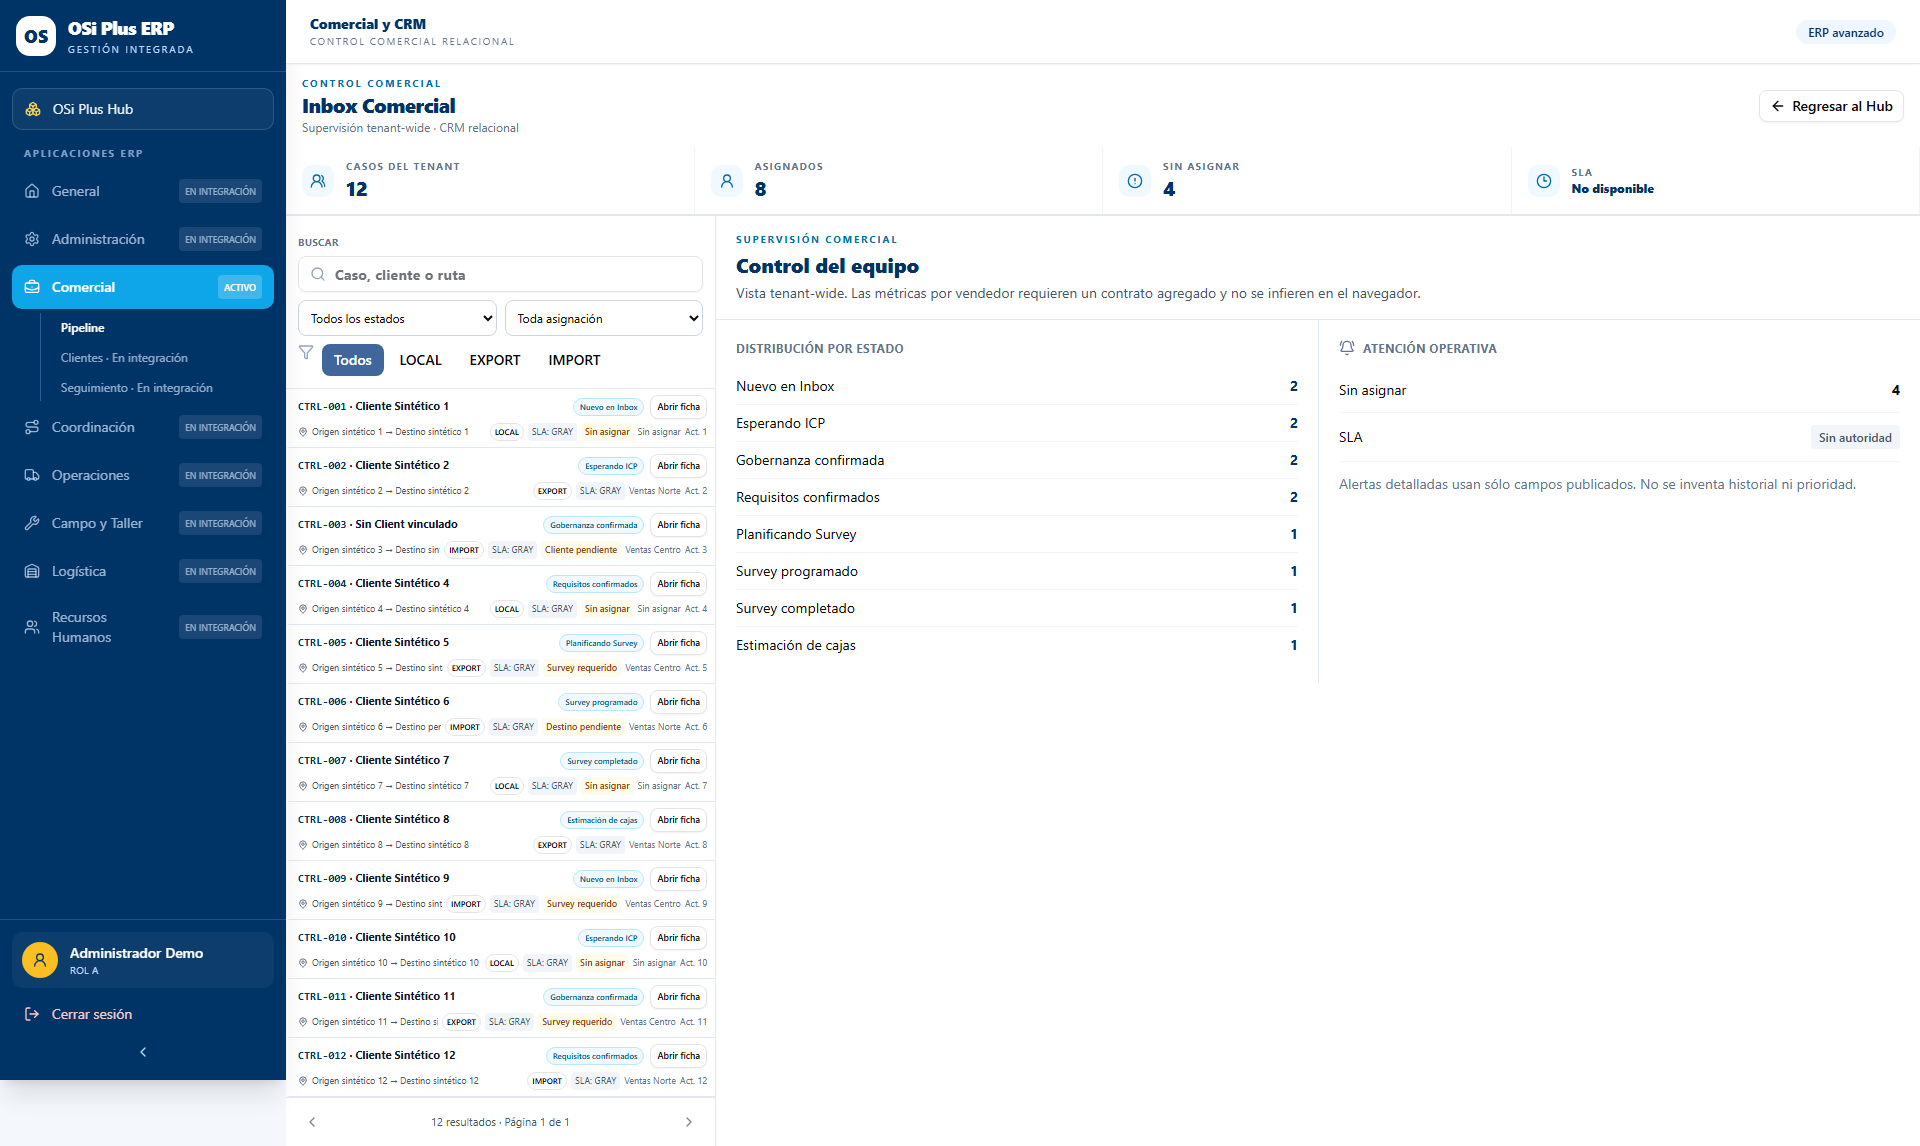
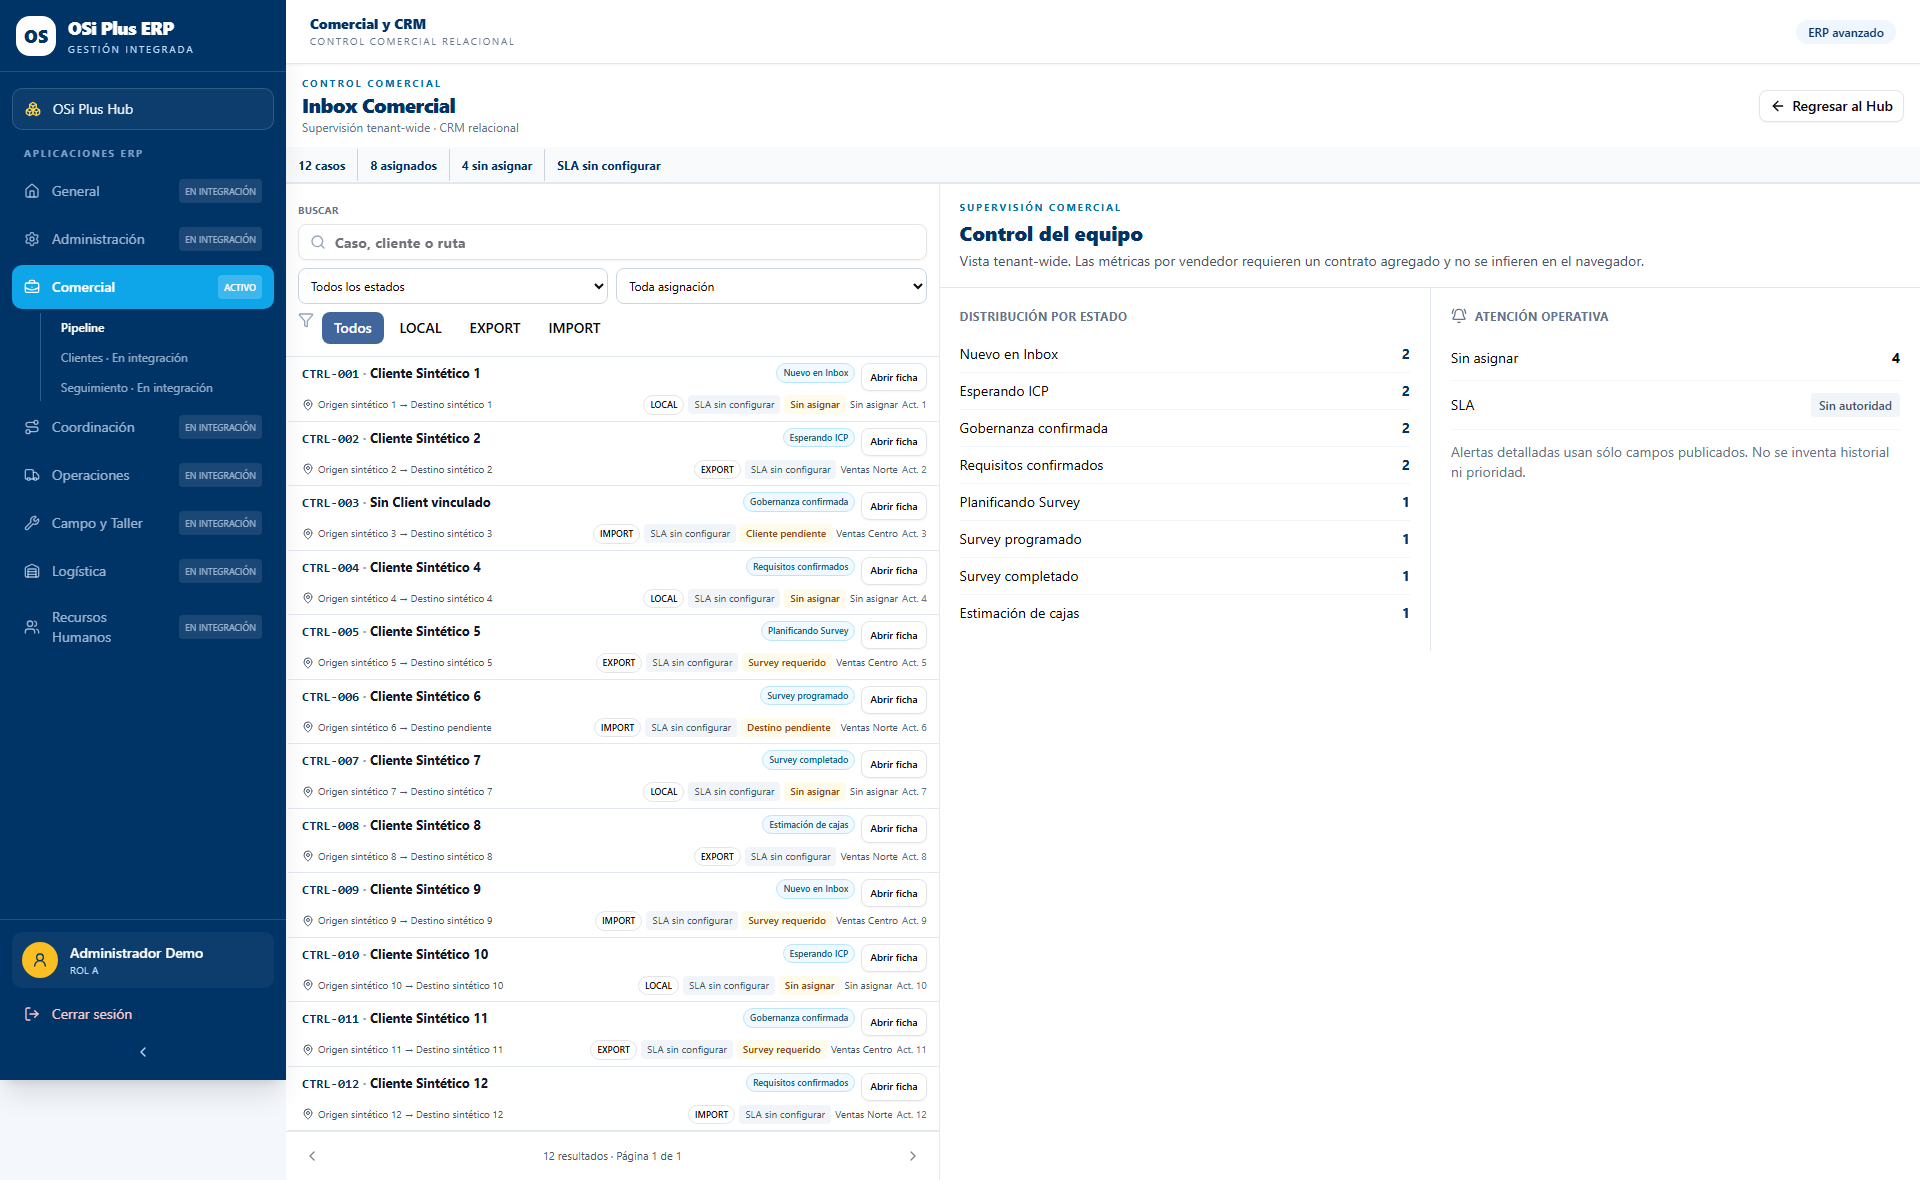
fix(crm): improve compact queue readability

diff --git a/src/commercial-crm/CommercialInboxModule.tsx b/src/commercial-crm/CommercialInboxModule.tsx
@@ -1,5 +1,5 @@
 import { lazy, Suspense, useCallback, useEffect, useMemo, useRef, useState } from "react";
-import { AlertCircle, ArrowLeft, BellRing, ChevronLeft, ChevronRight, Clock3, Filter, MapPin, Plus, Search, UserRound, UsersRound } from "lucide-react";
+import { AlertCircle, ArrowLeft, BellRing, ChevronLeft, ChevronRight, Filter, MapPin, Plus, Search } from "lucide-react";
 import { Alert, AlertDescription, AlertTitle } from "@/components/ui/alert";
 import { Badge } from "@/components/ui/badge";
 import { Button } from "@/components/ui/button";
@@ -34,12 +34,12 @@ function factualAlerts(item: CrmPipelineCase) {
 
 function SummaryStrip({ value, role }: { value: CrmPipelineSummary | null; role: string }) {
   const values = [
-    { label: role === "V" ? "Mis casos" : "Casos del tenant", value: value?.total ?? 0, icon: UsersRound },
-    { label: "Asignados", value: value?.assigned ?? 0, icon: UserRound },
-    { label: "Sin asignar", value: value?.unassigned ?? 0, icon: AlertCircle },
-    { label: "SLA", value: "No disponible", icon: Clock3 },
+    `${value?.total ?? 0} ${role === "V" ? "casos propios" : "casos"}`,
+    `${value?.assigned ?? 0} asignados`,
+    `${value?.unassigned ?? 0} sin asignar`,
+    "SLA sin configurar",
   ];
-  return <div className="grid grid-cols-2 border-b border-slate-200 bg-white xl:grid-cols-4">{values.map(({ label, value: count, icon: Icon }) => <div key={label} className="flex min-h-16 items-center gap-3 border-b border-r border-slate-100 px-3 py-2 xl:border-b-0 xl:px-4 xl:py-3"><span className="grid h-8 w-8 shrink-0 place-items-center rounded-lg bg-sky-50 text-[#006aa6]"><Icon className="h-4 w-4" /></span><div className="min-w-0"><p className="truncate text-[9px] font-bold uppercase tracking-[.1em] text-slate-500 sm:text-[10px] sm:tracking-[.12em]">{label}</p><p className={`${typeof count === "number" ? "text-xl" : "text-[11px]"} font-black text-[#003366]`}>{count}</p></div></div>)}</div>;
+  return <div data-testid="commercial-summary-strip" className="flex min-h-9 items-center overflow-x-auto border-b border-slate-200 bg-slate-50 px-3 text-[11px] font-bold text-[#003366] sm:text-xs" aria-label="Resumen del alcance comercial">{values.map((label, index) => <span key={label} className={`shrink-0 py-2 ${index ? "border-l border-slate-300 pl-3 ml-3" : ""}`}>{label}</span>)}</div>;
 }
 
 function EmptyState() {
@@ -48,7 +48,7 @@ function EmptyState() {
 
 function QueueItem({ item, selected, onOpen }: { item: CrmPipelineCase; selected: boolean; onOpen(caseRef: string): void }) {
   const alerts = factualAlerts(item);
-  return <article className={`border-b border-slate-200 bg-white transition-colors ${selected ? "border-l-4 border-l-[#0079b8] bg-sky-50" : "border-l-4 border-l-transparent hover:bg-slate-50"}`}><div className="px-2 py-1.5"><div className="flex items-center gap-1.5"><p className="min-w-0 flex-1 truncate text-[11px] font-bold text-slate-900"><span className="font-mono font-black text-[#003366]">{item.caseCode}</span> · {item.client?.displayName || "Sin Client vinculado"}</p><Badge data-status={item.status} variant="outline" className={`${statusClass(item.status)} shrink-0 px-1.5 text-[8px]`}>{STATUS_LABELS[item.status]}</Badge><Button size="sm" className="h-6 shrink-0 px-1.5 text-[9px]" variant={selected ? "secondary" : "outline"} onClick={() => onOpen(item.caseRef)}>Abrir ficha</Button></div><div className="mt-1 flex min-w-0 items-center gap-1 overflow-hidden text-[9px]"><span className="flex min-w-20 flex-1 items-center gap-1 truncate text-slate-600"><MapPin className="h-2.5 w-2.5 shrink-0" />{item.originLocation || "Origen pendiente"} → {item.destinationLocation || "Destino pendiente"}</span><Badge variant="outline" className="shrink-0 px-1 text-[8px]">{item.mode}</Badge><span className="shrink-0 rounded bg-slate-100 px-1 py-0.5 text-slate-600">SLA: GRAY</span>{alerts.slice(0, 1).map((alert) => <span key={alert} className="max-w-24 truncate rounded bg-amber-50 px-1 py-0.5 font-semibold text-amber-800">{alert}</span>)}<span className="max-w-24 truncate text-slate-500">{item.owner?.displayName || "Sin asignar"}</span>{item.eventCount > 0 && <span className="shrink-0 text-slate-500">Act. {item.eventCount}</span>}</div></div></article>;
+  return <article data-testid="commercial-queue-item" className={`border-b border-slate-200 bg-white transition-colors ${selected ? "border-l-4 border-l-[#0079b8] bg-sky-50" : "border-l-4 border-l-transparent hover:bg-slate-50"}`}><div className="grid grid-cols-[minmax(0,1fr)_auto] gap-x-2 px-3 py-1.5"><p className="min-w-0 truncate text-[13px] font-bold text-slate-900"><span className="font-mono font-black text-[#003366]">{item.caseCode}</span><span className="text-slate-400"> · </span>{item.client?.displayName || "Sin Client vinculado"}</p><div className="flex shrink-0 items-start gap-1.5"><Badge data-status={item.status} variant="outline" className={`${statusClass(item.status)} max-w-40 truncate px-1.5 text-[9px]`}>{STATUS_LABELS[item.status]}</Badge><Button size="sm" className="h-7 shrink-0 px-2 text-[10px]" variant={selected ? "secondary" : "outline"} onClick={() => onOpen(item.caseRef)}>Abrir ficha</Button></div><div className="col-span-2 mt-1 flex min-w-0 items-center gap-1 overflow-hidden text-[10px]"><span className="flex min-w-24 flex-1 items-center gap-1 truncate text-slate-600"><MapPin className="h-3 w-3 shrink-0" />{item.originLocation || "Origen pendiente"} → {item.destinationLocation || "Destino pendiente"}</span><Badge variant="outline" className="shrink-0 px-1.5 text-[9px]">{item.mode}</Badge><span className="shrink-0 rounded bg-slate-100 px-1.5 py-0.5 text-slate-600">SLA sin configurar</span>{alerts.slice(0, 1).map((alert) => <span key={alert} className="max-w-32 truncate rounded bg-amber-50 px-1.5 py-0.5 font-semibold text-amber-800">{alert}</span>)}<span className="max-w-32 truncate text-slate-600">{item.owner?.displayName || "Sin asignar"}</span>{item.eventCount > 0 && <span className="shrink-0 text-slate-500">Act. {item.eventCount}</span>}</div></div></article>;
 }
 
 function SupervisionPanel({ summary, role }: { summary: CrmPipelineSummary | null; role: string }) {
@@ -84,5 +84,5 @@ export default function CommercialInboxModule({ authorization, mutationAccess, r
   const pages = Math.max(1, Math.ceil((list?.total ?? 0) / (list?.pageSize ?? PAGE_SIZE)));
   const queue = <section className="flex min-h-0 flex-col border-r border-slate-200 bg-slate-50" aria-label="Cola comercial"><div className="border-b border-slate-200 bg-white p-3"><label className="text-[10px] font-bold uppercase tracking-wide text-slate-500">Buscar<span className="relative mt-1 block"><Search className="pointer-events-none absolute left-3 top-2.5 h-4 w-4 text-slate-400" /><Input className="h-9 pl-9" value={searchInput} onChange={(event) => setSearchInput(event.target.value)} placeholder="Caso, cliente o ruta" /></span></label><div className="mt-2 grid grid-cols-2 gap-2"><select aria-label="Estado" className="h-9 rounded-md border border-slate-300 bg-white px-2 text-xs" value={filters.status || ""} onChange={(event) => setFilters((current) => ({ ...current, page: 1, status: (event.target.value || undefined) as PipelineCaseStatus | undefined }))}><option value="">Todos los estados</option>{PIPELINE_CASE_STATUSES.map((value) => <option key={value} value={value}>{STATUS_LABELS[value]}</option>)}</select><select aria-label="Asignación" className="h-9 rounded-md border border-slate-300 bg-white px-2 text-xs" value={filters.owner || ""} onChange={(event) => setFilters((current) => ({ ...current, page: 1, owner: (event.target.value || undefined) as CrmPipelineFilters["owner"] }))} disabled={role === "V"}><option value="">{role === "V" ? "Sólo mis casos" : "Toda asignación"}</option><option value="assigned">Asignadas</option><option value="unassigned">Sin asignar</option></select></div><div className="mt-2 flex flex-wrap gap-1"><Filter className="mr-1 h-4 w-4 text-slate-400" /><Button size="sm" variant={!filters.mode ? "secondary" : "ghost"} onClick={() => setFilters((current) => ({ ...current, page: 1, mode: undefined }))}>Todos</Button>{MODES.map((mode) => <Button key={mode} size="sm" variant={filters.mode === mode ? "secondary" : "ghost"} onClick={() => setFilters((current) => ({ ...current, page: 1, mode }))}>{mode}</Button>)}</div></div><div className="min-h-0 flex-1 overflow-y-auto">{listError && <Alert variant="destructive" className="m-3"><AlertCircle /><AlertTitle>{listError.code}</AlertTitle><AlertDescription>{commercialReadErrorCopy(listError)}<Button size="sm" variant="outline" className="mt-2" onClick={() => setRefresh((value) => value + 1)}>Reintentar lectura</Button></AlertDescription></Alert>}{loading && !list && <p className="p-8 text-center text-sm text-slate-500">Cargando Inbox Comercial…</p>}{!loading && list?.data.length === 0 && <EmptyState />}{list?.data.map((item) => <QueueItem key={item.caseRef} item={item} selected={item.caseRef === caseRef} onOpen={onOpenCase} />)}</div><footer className="flex items-center justify-between gap-2 border-t border-slate-200 bg-white p-2"><Button size="sm" variant="ghost" aria-label="Página anterior" disabled={loading || (list?.page ?? filters.page) <= 1} onClick={() => setFilters((current) => ({ ...current, page: Math.max(1, current.page - 1) }))}><ChevronLeft /></Button><p className="text-[11px] text-slate-600">{list?.total ?? 0} resultados · Página {list?.page ?? filters.page} de {pages}</p><Button size="sm" variant="ghost" aria-label="Página siguiente" disabled={loading || (list?.page ?? filters.page) >= pages} onClick={() => setFilters((current) => ({ ...current, page: Math.min(pages, current.page + 1) }))}><ChevronRight /></Button></footer></section>;
 
-  return <section className="flex min-h-[calc(100vh-4rem)] flex-col bg-[#f4f7fb]" data-testid="commercial-crm-inbox"><header className="border-b border-slate-200 bg-white"><div className="flex flex-wrap items-center justify-between gap-3 px-4 py-3"><div><p className="text-[10px] font-bold uppercase tracking-[.2em] text-[#0070a8]">Control Comercial</p><h1 className="text-xl font-black tracking-tight text-[#003366]">Inbox Comercial</h1><p className="text-xs text-slate-500">{role === "V" ? "Cola personal revalidada por servidor" : "Supervisión tenant-wide"} · CRM relacional</p></div><div className="flex gap-2">{mutationEnvironmentEnabled && mutationAccess.canCreate && <Button size="sm" onClick={() => setCreateOpen(true)}><Plus />Nuevo Caso</Button>}<Button size="sm" variant="outline" onClick={onBack}><ArrowLeft />Regresar al Hub</Button></div></div><SummaryStrip value={summary} role={role} /></header>{mutationEnvironmentEnabled && mutationAccess.canCreate && <CommercialCaseForm open={createOpen} mode="CREATE" api={mutationApi} onOpenChange={setCreateOpen} onCommitted={(receipt) => { setRefresh((value) => value + 1); onOpenCase(receipt.caseRef); }} />}{summaryError && <Alert variant="destructive" className="m-3"><AlertCircle /><AlertTitle>{summaryError.code}</AlertTitle><AlertDescription>{commercialReadErrorCopy(summaryError)}</AlertDescription></Alert>}<div className="min-h-0 flex-1 md:grid md:grid-cols-[390px_minmax(0,1fr)] xl:grid-cols-[430px_minmax(0,1fr)]"><div className={caseRef ? "hidden md:block" : "block"}>{queue}</div><main className={caseRef ? "block min-w-0 bg-white" : "hidden min-w-0 bg-white md:block"}>{caseRef ? <Suspense fallback={<div className="grid min-h-[50vh] place-items-center text-sm text-slate-500">Cargando Ficha del Caso…</div>}><CommercialCaseDetail state={detail} mutationEnvironmentEnabled={mutationEnvironmentEnabled} mutationAccess={mutationAccess} mutationApi={mutationApi} onBack={onReturnToInbox} onReload={() => setDetailRefresh((value) => value + 1)} /></Suspense> : <SupervisionPanel summary={summary} role={role} />}</main></div></section>;
+  return <section className="flex min-h-[calc(100vh-4rem)] flex-col bg-[#f4f7fb]" data-testid="commercial-crm-inbox"><header className="border-b border-slate-200 bg-white"><div className="flex flex-wrap items-center justify-between gap-3 px-4 py-3"><div><p className="text-[10px] font-bold uppercase tracking-[.2em] text-[#0070a8]">Control Comercial</p><h1 className="text-xl font-black tracking-tight text-[#003366]">Inbox Comercial</h1><p className="text-xs text-slate-500">{role === "V" ? "Cola personal revalidada por servidor" : "Supervisión tenant-wide"} · CRM relacional</p></div><div className="flex gap-2">{mutationEnvironmentEnabled && mutationAccess.canCreate && <Button size="sm" onClick={() => setCreateOpen(true)}><Plus />Nuevo Caso</Button>}<Button size="sm" variant="outline" onClick={onBack}><ArrowLeft />Regresar al Hub</Button></div></div><SummaryStrip value={summary} role={role} /></header>{mutationEnvironmentEnabled && mutationAccess.canCreate && <CommercialCaseForm open={createOpen} mode="CREATE" api={mutationApi} onOpenChange={setCreateOpen} onCommitted={(receipt) => { setRefresh((value) => value + 1); onOpenCase(receipt.caseRef); }} />}{summaryError && <Alert variant="destructive" className="m-3"><AlertCircle /><AlertTitle>{summaryError.code}</AlertTitle><AlertDescription>{commercialReadErrorCopy(summaryError)}</AlertDescription></Alert>}<div data-testid="commercial-master-detail-layout" className="min-h-0 flex-1 xl:grid" style={{ gridTemplateColumns: "clamp(560px, 40%, 720px) minmax(0, 1fr)" }}><div className={caseRef ? "hidden xl:block" : "block"}>{queue}</div><main className={caseRef ? "block min-w-0 bg-white" : "hidden min-w-0 bg-white xl:block"}>{caseRef ? <Suspense fallback={<div className="grid min-h-[50vh] place-items-center text-sm text-slate-500">Cargando Ficha del Caso…</div>}><CommercialCaseDetail state={detail} mutationEnvironmentEnabled={mutationEnvironmentEnabled} mutationAccess={mutationAccess} mutationApi={mutationApi} onBack={onReturnToInbox} onReload={() => setDetailRefresh((value) => value + 1)} /></Suspense> : <SupervisionPanel summary={summary} role={role} />}</main></div></section>;
 }

diff --git a/tests/v17-erp-crm-foundation/compact-control-evidence.spec.ts b/tests/v17-erp-crm-foundation/compact-control-evidence.spec.ts
@@ -42,10 +42,26 @@ test("evidencia sanitizada del control comercial compacto", async ({ page }, tes
   await page.goto("/commercial");
   await expect(page.getByRole("heading", { name: "Inbox Comercial", exact: true })).toBeVisible();
   const mobile = testInfo.project.name === "chromium-mobile";
+  const summaryStrip = page.getByTestId("commercial-summary-strip");
+  await expect(summaryStrip).toContainText("12 casos");
+  await expect(summaryStrip).toContainText("8 asignados");
+  await expect(summaryStrip).toContainText("4 sin asignar");
+  await expect(summaryStrip).toContainText("SLA sin configurar");
+  const layout = page.getByTestId("commercial-master-detail-layout");
+  const queue = page.getByRole("region", { name: "Cola comercial" });
   if (!mobile) {
     const visibleRows = await page.getByRole("button", { name: "Abrir ficha" }).evaluateAll((buttons) => buttons.filter((button) => button.getBoundingClientRect().bottom <= window.innerHeight).length);
     expect(visibleRows).toBeGreaterThanOrEqual(10);
+    const queueBox = await queue.boundingBox();
+    expect(queueBox?.width).toBeGreaterThanOrEqual(559);
+    expect(queueBox?.width).toBeLessThanOrEqual(721);
+    expect(await layout.evaluate((element) => getComputedStyle(element).gridTemplateColumns.split(" ").length)).toBe(2);
+    expect(await page.getByTestId("commercial-queue-item").first().locator("p").first().evaluate((element) => Number.parseFloat(getComputedStyle(element).fontSize))).toBeGreaterThanOrEqual(13);
+  } else {
+    expect(await layout.evaluate((element) => getComputedStyle(element).display)).not.toBe("grid");
+    expect((await summaryStrip.boundingBox())?.height).toBeLessThanOrEqual(50);
   }
+  expect(await page.evaluate(() => document.documentElement.scrollWidth <= document.documentElement.clientWidth)).toBe(true);
   await page.screenshot({ path: resolve(EVIDENCE, mobile ? "05-mobile-list.png" : "01-admin-global.png"), fullPage: true });
   if (!mobile) await page.screenshot({ path: resolve(EVIDENCE, "03-alert-list-gray-sla.png"), fullPage: true });
   await page.getByRole("button", { name: "Abrir ficha" }).first().click();
